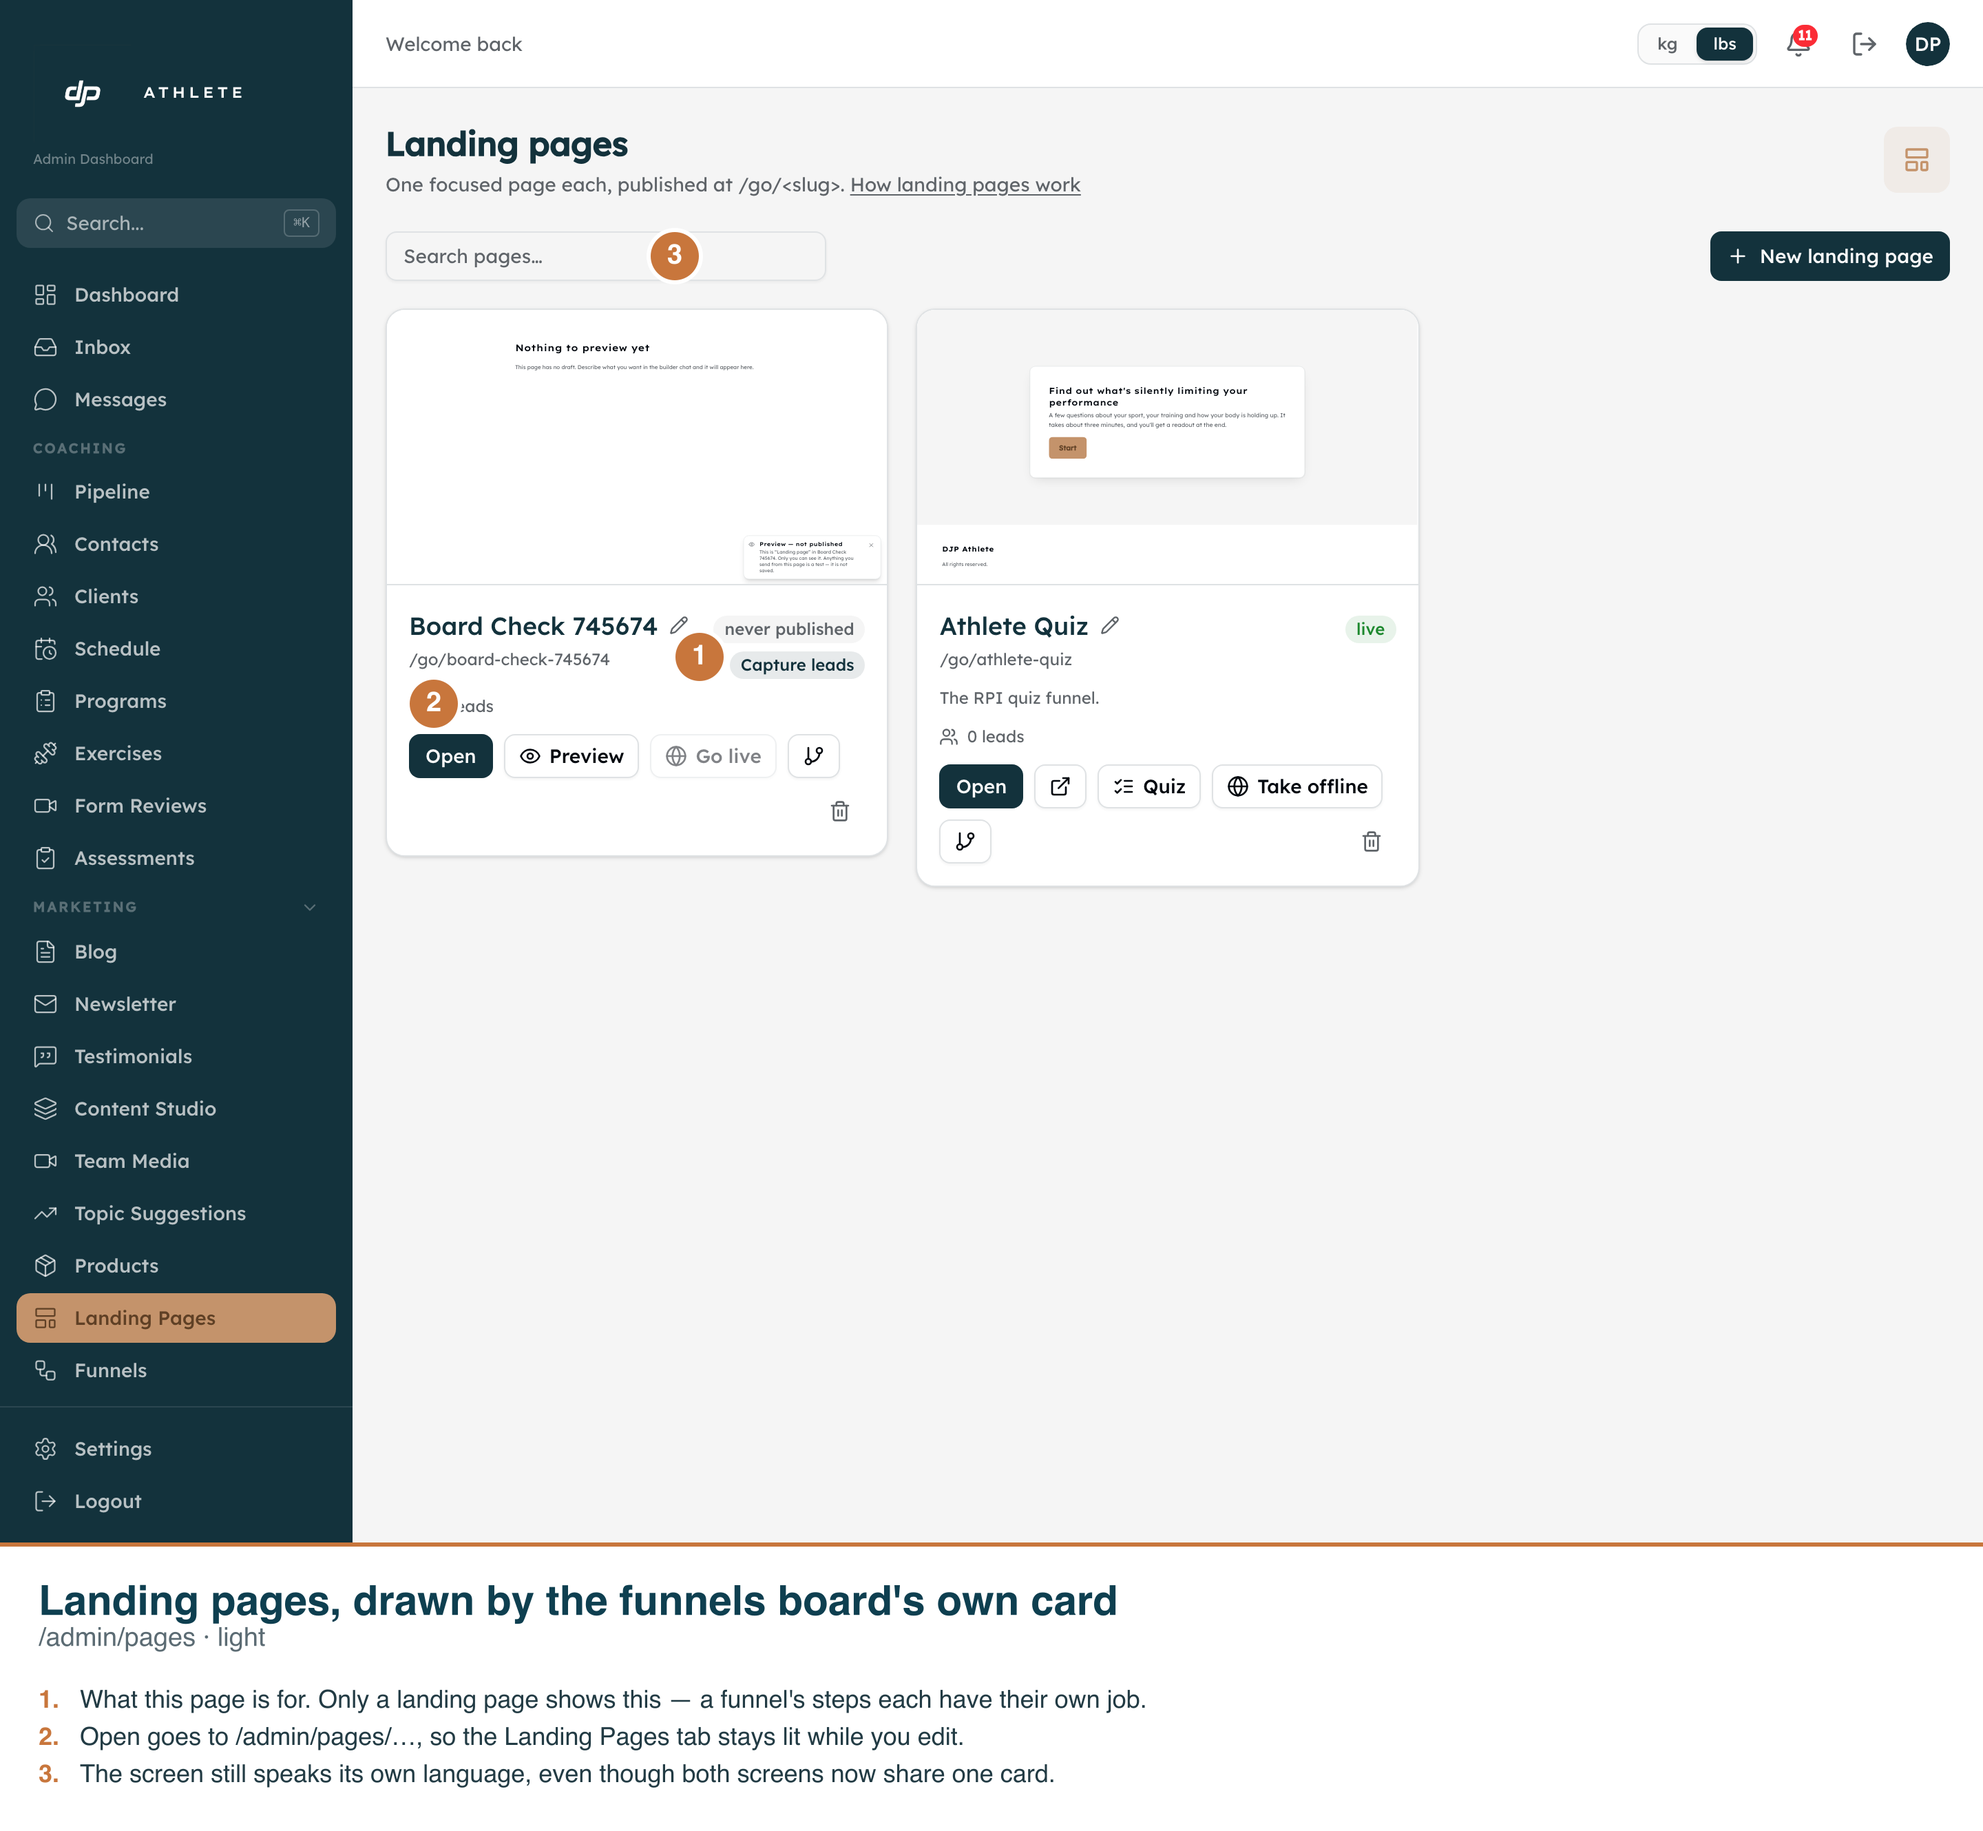
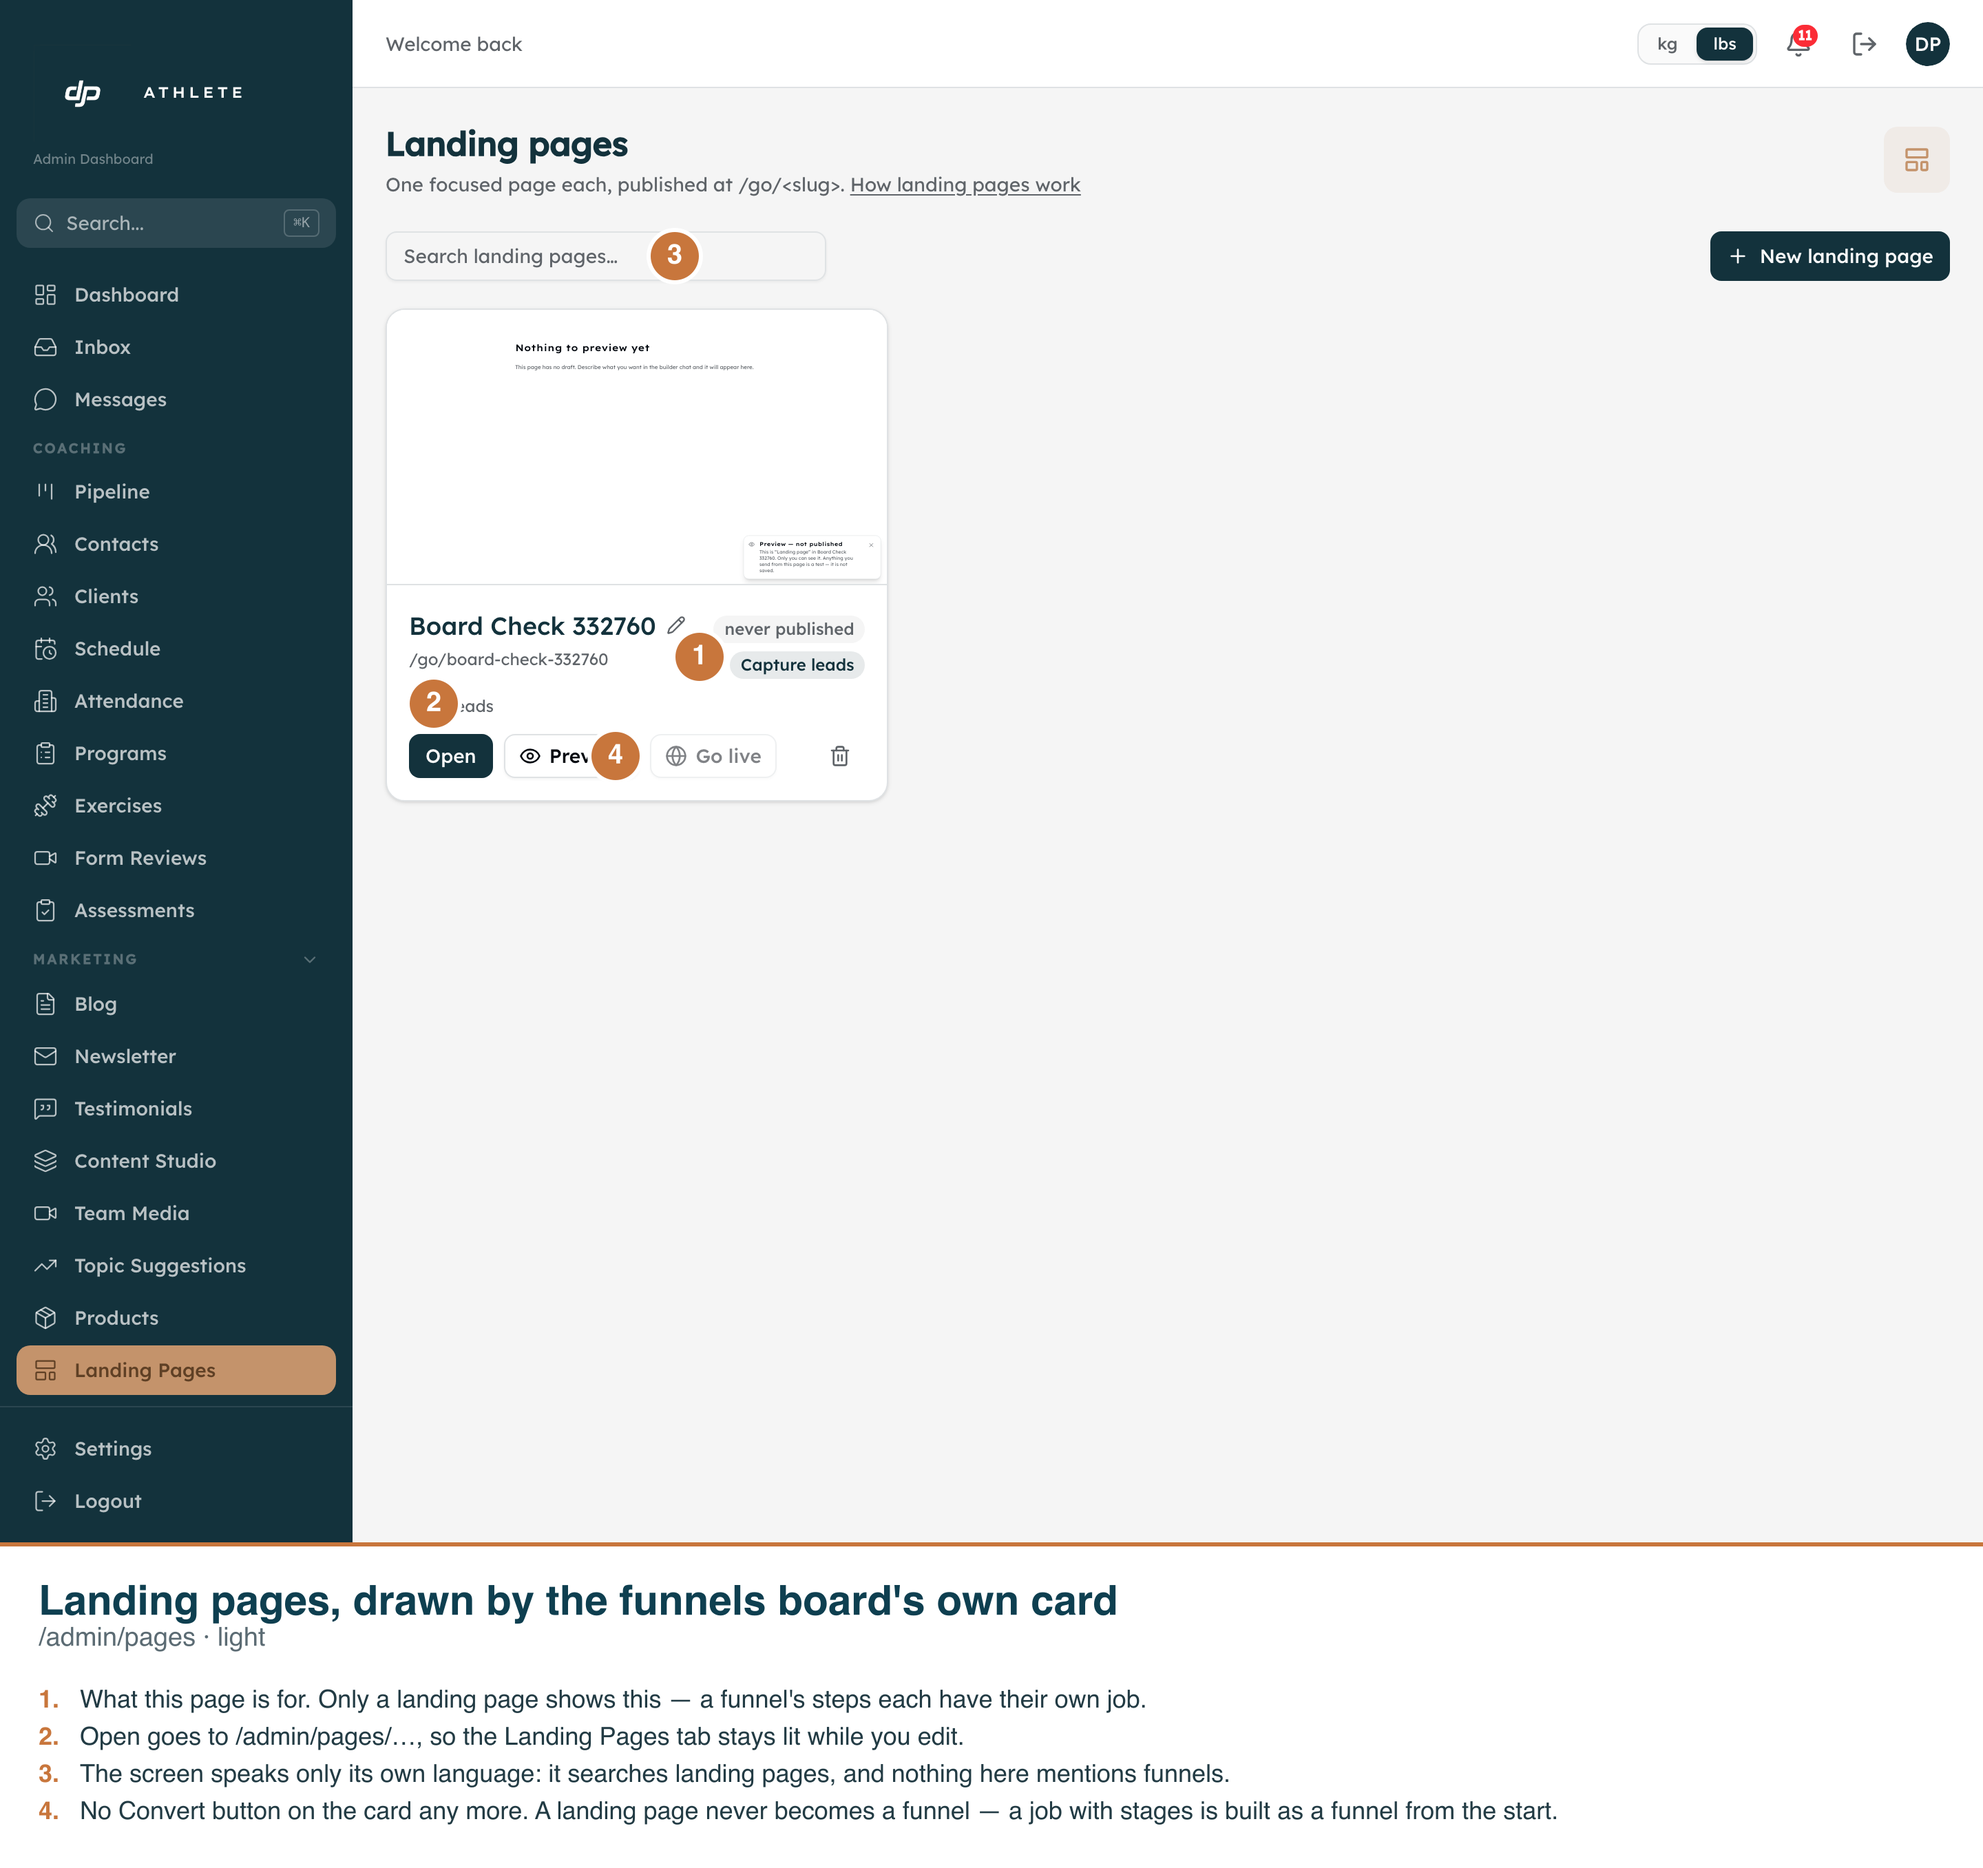
test(funnels): the board probe pins the Convert absence, and its shots show it
The live harness now asserts no card of either kind offers a Convert
control, and both reference shots are re-captured against the new boards.
The stale 'at least 2 cards on /admin/pages' expectation is relaxed to 1 —
it dated from when the dev copy's Athlete Quiz was still a landing page.

A whole-page 'no landing page wording on the funnels board' assertion was
tried here and removed: the dev copy's Test funnel has a STEP the owner
named 'Landing page', which renders legitimately in the card's step list —
a text sweep cannot tell the owner's nouns from the app's. The chrome-level
guarantee lives in funnel-list-kind.test.tsx against the empty board.

diff --git a/scripts/capture-one-board.ts b/scripts/capture-one-board.ts
@@ -173,9 +173,12 @@ async function main(): Promise<void> {
     await page.waitForTimeout(4000)
 
     const cards = page.locator('[data-testid="funnel-card"]')
+    // AT LEAST the page this run just made. It used to demand two, back when
+    // the dev copy's Athlete Quiz was still kind=page; that row is a funnel
+    // now, so this board legitimately holds only what the run creates.
     must(
-      (await cards.count()) >= 2,
-      `expected at least 2 cards on /admin/pages, found ${await cards.count()} — is this rendering the shared card at all?`,
+      (await cards.count()) >= 1,
+      `expected at least 1 card on /admin/pages, found ${await cards.count()} — is this rendering the shared card at all?`,
     )
     const made = cardFor(page, PAGE_NAME)
     must((await made.count()) > 0, `no card for "${PAGE_NAME}"`)
@@ -198,8 +201,16 @@ async function main(): Promise<void> {
       openHref.startsWith(`/admin/pages/${madePageId}/edit/`),
       `a page card's Open points at ${openHref} — a /admin/funnels link works and lights the wrong sidebar tab`,
     )
-    must((await page.getByPlaceholder("Search pages…").count()) > 0, "the pages board does not search pages")
-    console.log(`  /admin/pages: shared card, goal badge, no settings link, Open -> ${openHref}`)
+    must((await page.getByPlaceholder("Search landing pages…").count()) > 0, "the pages board does not search landing pages")
+
+    // NO CONVERT CONTROL, BY THE OWNER'S RULING (2026-08-31): a landing page
+    // never becomes a funnel. The Open link asserted above is the presence
+    // control proving the card rendered before this absence is believed.
+    must(
+      (await made.getByRole("button", { name: /convert/i }).count()) === 0,
+      "a landing page card still offers Convert, which was removed",
+    )
+    console.log(`  /admin/pages: shared card, goal badge, no settings link, no Convert, Open -> ${openHref}`)
 
     await shoot(
       page,
@@ -209,7 +220,8 @@ async function main(): Promise<void> {
       [
         await markerAt(page, goalBadge, "What this page is for. Only a landing page shows this — a funnel's steps each have their own job.", { x: -22, y: 4 }),
         await markerAt(page, openLink, "Open goes to /admin/pages/…, so the Landing Pages tab stays lit while you edit.", { x: 18, y: -22 }),
-        await markerAt(page, page.getByPlaceholder("Search pages…"), "The screen still speaks its own language, even though both screens now share one card.", { x: 210, y: 18 }),
+        await markerAt(page, page.getByPlaceholder("Search landing pages…"), "The screen speaks only its own language: it searches landing pages, and nothing here mentions funnels.", { x: 210, y: 18 }),
+        await markerAt(page, made.getByRole("link", { name: "Open" }).first(), "No Convert button on the card any more. A landing page never becomes a funnel — a job with stages is built as a funnel from the start.", { x: 150, y: 16 }),
       ],
     )
 
@@ -231,9 +243,19 @@ async function main(): Promise<void> {
     // AND IT DOES HAVE A SETTINGS SCREEN.
     const gear = firstFunnel.locator('a[href^="/admin/funnels/"]').filter({ hasNotText: /.+/ }).first()
     must((await gear.count()) > 0, "a funnel card offers no way to its settings screen")
-    must((await page.getByPlaceholder("Search funnels and pages…").count()) > 0, "the funnels board lost its placeholder")
+    must((await page.getByPlaceholder("Search funnels and their pages…").count()) > 0, "the funnels board lost its placeholder")
     must((await page.getByRole("button", { name: "New funnel" }).count()) > 0, "no New funnel button")
-    console.log("  /admin/funnels: same card, no goal badge, settings link present")
+    must(
+      (await page.getByRole("button", { name: /convert/i }).count()) === 0,
+      "the funnels board offers a Convert control, which no kind has",
+    )
+    // The chrome-level "no borrowed vocabulary" guarantee is pinned by
+    // funnel-list-kind.test.tsx on the EMPTY board, where every word is the
+    // app's own. It cannot be asserted here on a whole live page: a step the
+    // owner NAMED "Landing page" (the dev copy's Test funnel has one) renders
+    // legitimately inside a card's step list, and a text sweep cannot tell
+    // the owner's nouns from the app's.
+    console.log("  /admin/funnels: same card, no goal badge, no Convert, settings link present")
 
     await shoot(
       page,
